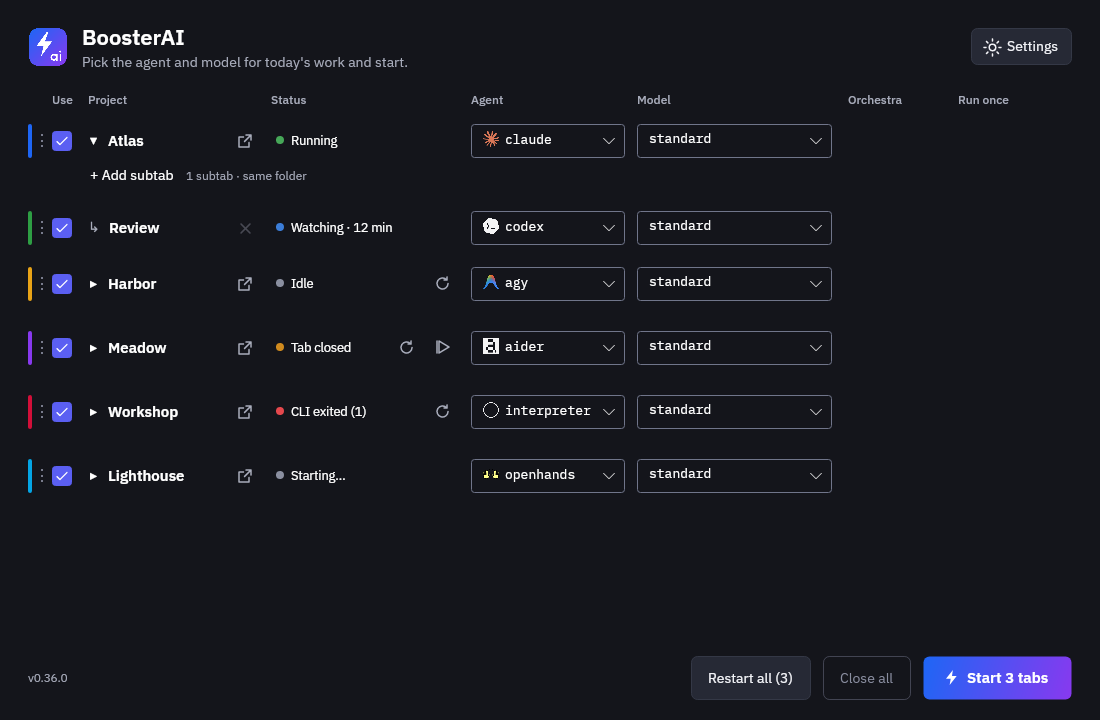
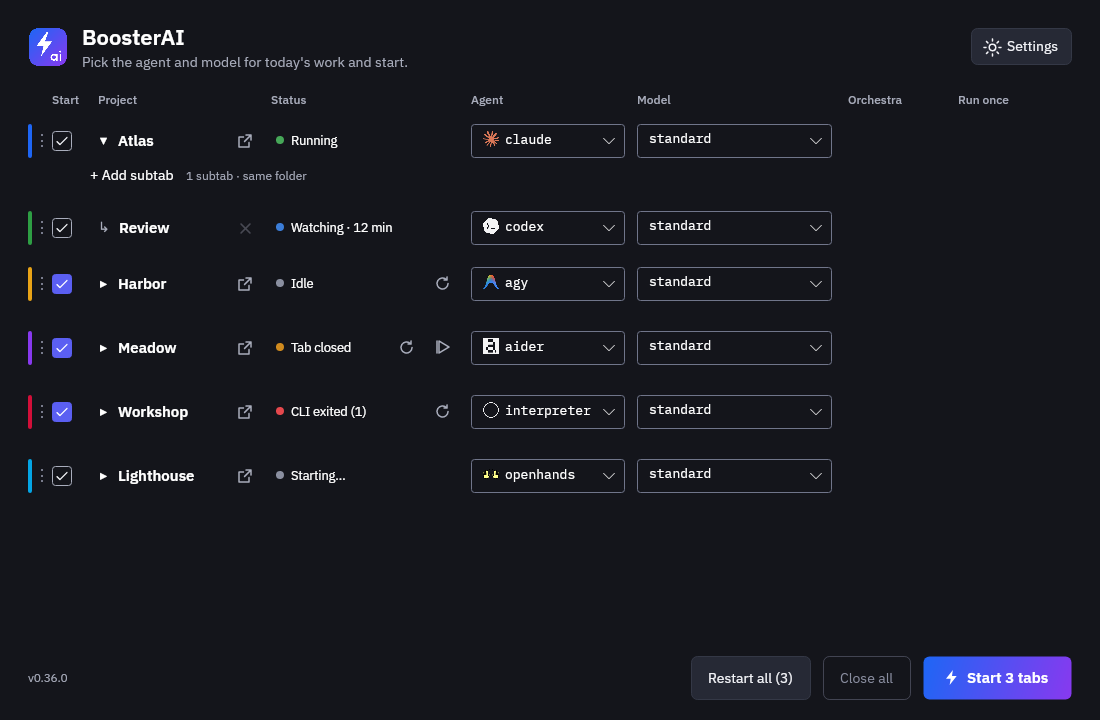
Make clear what Start opens: live-row checkbox, names, Start tooltip (#151)

diff --git a/tests/BoosterAI.Tests/StartClarityTests.cs b/tests/BoosterAI.Tests/StartClarityTests.cs
@@ -1,0 +1,103 @@
+using System.Xml.Linq;
+using BoosterAI;
+using Xunit;
+
+namespace BoosterAI.Tests;
+
+/// <summary>#151: the Start button tooltip lists what Start opens, the row checkbox names say what ticking means
+/// (and why a running row is left alone), and the accent-filled boxes are exactly the ones Start counts.</summary>
+[Collection(ConfigFileCollection.Name)]
+public class StartClarityTests : IDisposable
+{
+    private readonly string _language = Loc.Language;
+
+    public StartClarityTests() => Loc.Use("sv");
+    public void Dispose() => Loc.Use(_language);
+
+    private static MainViewModel Build(params string[] names) =>
+        new(new AppConfig { Tabs = names.Select(n => new TabConfig { Name = n, Directory = "/srv/" + n, Enabled = true }).ToList() });
+
+    [Fact]
+    public void StartTooltipListsTheTabsStartOpens()
+    {
+        var vm = Build("Atlas", "Boreal", "Cirrus", "Delta");
+        vm.Tabs[0].SetState(TabState.Running, null, activity: Activity.Busy);
+        vm.Tabs[1].Enabled = false;
+        vm.TabsChanged();
+        Assert.Equal("Öppnar Cirrus, Delta", vm.LaunchTip);
+        Assert.Equal(vm.ToStartCount, vm.Tabs.Count(t => t.WillStart));
+        Assert.Equal("Starta 2 flikar", vm.LaunchLabel);
+    }
+
+    [Fact]
+    public void StartTooltipFollowsRenamesAndIsEmptyWhenNothingStarts()
+    {
+        var vm = Build("A", "B");
+        Assert.Equal("Öppnar A, B", vm.LaunchTip);
+        vm.Tabs[1].Name = "Beta";
+        Assert.Equal("Öppnar A, Beta", vm.LaunchTip);
+        foreach (var t in vm.Tabs) t.Enabled = false;
+        Assert.Null(vm.LaunchTip);
+    }
+
+    [Fact]
+    public void StartTooltipIsEnglishToo()
+    {
+        Loc.Use("en");
+        Assert.Equal("Opens A, B", Build("A", "B").LaunchTip);
+    }
+
+    [Fact]
+    public void CheckboxNameSaysWhatTickingMeansOrWhyARunningRowIsLeftAlone()
+    {
+        var vm = Build("Cirrus");
+        var tab = vm.Tabs[0];
+        Assert.Equal("Ta med Cirrus vid Starta", tab.OpenTip);
+        Assert.True(tab.WillStart);
+        tab.SetState(TabState.Running, null, activity: Activity.Busy);
+        Assert.Equal("Cirrus körs redan och startas inte om. Ingår vid nästa start när fliken är stängd.", tab.OpenTip);
+        Assert.False(tab.WillStart);
+        tab.SetState(TabState.Closed, null, activity: Activity.Unknown);
+        Assert.Equal("Ta med Cirrus vid Starta", tab.OpenTip);
+    }
+
+    [Fact]
+    public void CheckboxNameIsRaisedWhenTheRowStartsRunning()
+    {
+        var tab = Build("Cirrus").Tabs[0];
+        var raised = new List<string?>();
+        tab.PropertyChanged += (_, e) => raised.Add(e.PropertyName);
+        tab.SetState(TabState.Running, null, activity: Activity.Busy);
+        Assert.Contains(nameof(TabViewModel.OpenTip), raised);
+        Assert.Contains(nameof(TabViewModel.WillStart), raised);
+    }
+
+    [Fact]
+    public void RowCheckboxUsesTheNameForTooltipAndAutomationAndMarksLiveRows()
+    {
+        var src = Path.Combine(RepoRoot(), "src", "BoosterAI");
+        var check = XDocument.Load(Path.Combine(src, "MainWindow.axaml")).Descendants()
+            .Single(e => e.Name.LocalName == "CheckBox" && (string?)e.Attribute("IsChecked") == "{Binding Enabled}");
+        Assert.Equal("{Binding OpenTip}", (string?)check.Attribute("AutomationProperties.Name"));
+        Assert.Equal("{Binding OpenTip}", (string?)check.Attribute("ToolTip.Tip"));
+        Assert.Equal("{Binding IsAlive}", (string?)check.Attribute("Classes.alive"));
+        var styles = File.ReadAllText(Path.Combine(src, "Styles.axaml"));
+        Assert.Contains("CheckBox.alive:checked /template/ Border#NormalRectangle", styles);
+        Assert.Contains("CheckBox.alive:checked /template/ Path#CheckGlyph", styles);
+    }
+
+    [Fact]
+    public void ColumnHeaderIsStartaInSwedish()
+    {
+        Assert.Equal("Starta", Loc.Get("col.with"));
+        Loc.Use("en");
+        Assert.Equal("Start", Loc.Get("col.with"));
+    }
+
+    private static string RepoRoot()
+    {
+        for (var dir = new DirectoryInfo(AppContext.BaseDirectory); dir is not null; dir = dir.Parent)
+            if (File.Exists(Path.Combine(dir.FullName, "BoosterAI.slnx"))) return dir.FullName;
+        throw new InvalidOperationException("Repository root not found.");
+    }
+}

diff --git a/src/BoosterAI/ViewModels.cs b/src/BoosterAI/ViewModels.cs
@@ -76,7 +76,23 @@ public sealed class TabViewModel : Observable
         };
     }
 
-    public string Name { get => _name; set { if (Set(ref _name, value)) Raise(nameof(StatusActionName)); } }
+    public string Name
+    {
+        get => _name;
+        set
+        {
+            if (!Set(ref _name, value)) return;
+            Raise(nameof(StatusActionName));
+            Raise(nameof(OpenTip));
+            _owner.RaiseLaunchTip();
+        }
+    }
+
+    /// <summary>Tooltip and accessible name of the row's Start checkbox: what ticking it means, or why a running row is left alone (#151).</summary>
+    public string OpenTip => Loc.Format(IsAlive ? "tab.open.alive" : "tab.open.tip", Name);
+
+    /// <summary>A ticked row that is not running is the only kind Start opens; this is the one the accent fill marks.</summary>
+    public bool WillStart => Enabled && !IsAlive;
     public bool Orkester
     {
         get => _orkester;
@@ -114,6 +130,7 @@ public sealed class TabViewModel : Observable
         {
             if (!Set(ref _enabled, value)) return;
             Raise(nameof(RowOpacity));
+            Raise(nameof(WillStart));
             _owner.TabsChanged();
         }
     }
@@ -429,7 +446,7 @@ public sealed class TabViewModel : Observable
         _watchingSince = watchingSince;
         _clearedAt = clearedAt;
         if (state != TabState.Running) PendingRestart = false;
-        foreach (var n in new[] { nameof(HasStatus), nameof(IsRunning), nameof(IsAlive), nameof(Activity), nameof(StatusText), nameof(StatusTip), nameof(StatusBrush),
+        foreach (var n in new[] { nameof(HasStatus), nameof(IsRunning), nameof(IsAlive), nameof(OpenTip), nameof(WillStart), nameof(Activity), nameof(StatusText), nameof(StatusTip), nameof(StatusBrush),
             nameof(ShowsOutput), nameof(HasOutput), nameof(OutputNote), nameof(HasOutputNote), nameof(CanRemoveSubTab) }) Raise(n);
         RaiseRestart();
         (Parent ?? this).GroupChanged();
@@ -585,6 +602,10 @@ public sealed partial class MainViewModel : Observable
     /// <summary>The chosen tabs Start opens: those not already running.</summary>
     public int ToStartCount => Tabs.Count(t => t.Enabled && !t.IsAlive);
     public bool CanLaunch => !IsClosingAll && ToStartCount > 0;
+    /// <summary>"Opens Cirrus, Delta": the tabs Start opens, so the button's count can be checked against the list.</summary>
+    public string? LaunchTip => ToStartCount == 0 ? null
+        : Loc.Format("launch.tip", string.Join(", ", Tabs.Where(t => t.WillStart).Select(t => t.Name)));
+    internal void RaiseLaunchTip() => Raise(nameof(LaunchTip));
     public string LaunchLabel => ToStartCount switch
     {
         0 when EnabledCount > 0 => Loc.Get("launch.allRunning"),
@@ -710,6 +731,7 @@ public sealed partial class MainViewModel : Observable
         Raise(nameof(ToStartCount));
         Raise(nameof(CanLaunch));
         Raise(nameof(LaunchLabel));
+        Raise(nameof(LaunchTip));
         Raise(nameof(CanCloseAll));
         Raise(nameof(CloseAllTip));
         RestartableChanged();

diff --git a/src/BoosterAI/MainWindow.axaml.cs b/src/BoosterAI/MainWindow.axaml.cs
@@ -19,7 +19,7 @@ public partial class MainWindow : Window
         if (grid.Tag is bool previous && previous == compact) return;
         grid.Tag = compact;
         grid.ColumnDefinitions = new ColumnDefinitions(compact
-            ? "4,20,36,*,115,166,120,75,105" : "4,20,36,*,200,166,195,110,130");
+            ? "4,20,46,*,115,166,120,75,105" : "4,20,46,*,200,166,195,110,130");
     }
 
     private static readonly DataFormat<string> TabDragFormat = DataFormat.CreateStringApplicationFormat("boosterai-tab-index");
